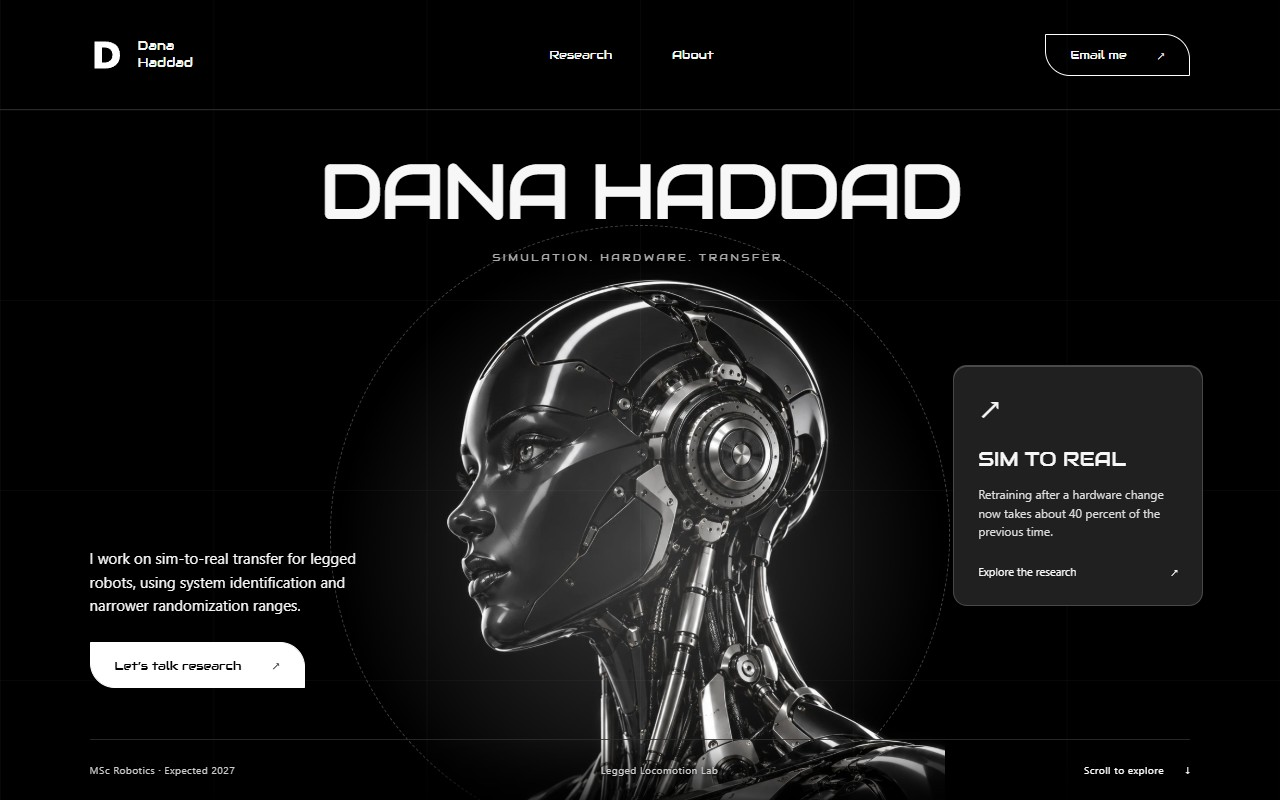
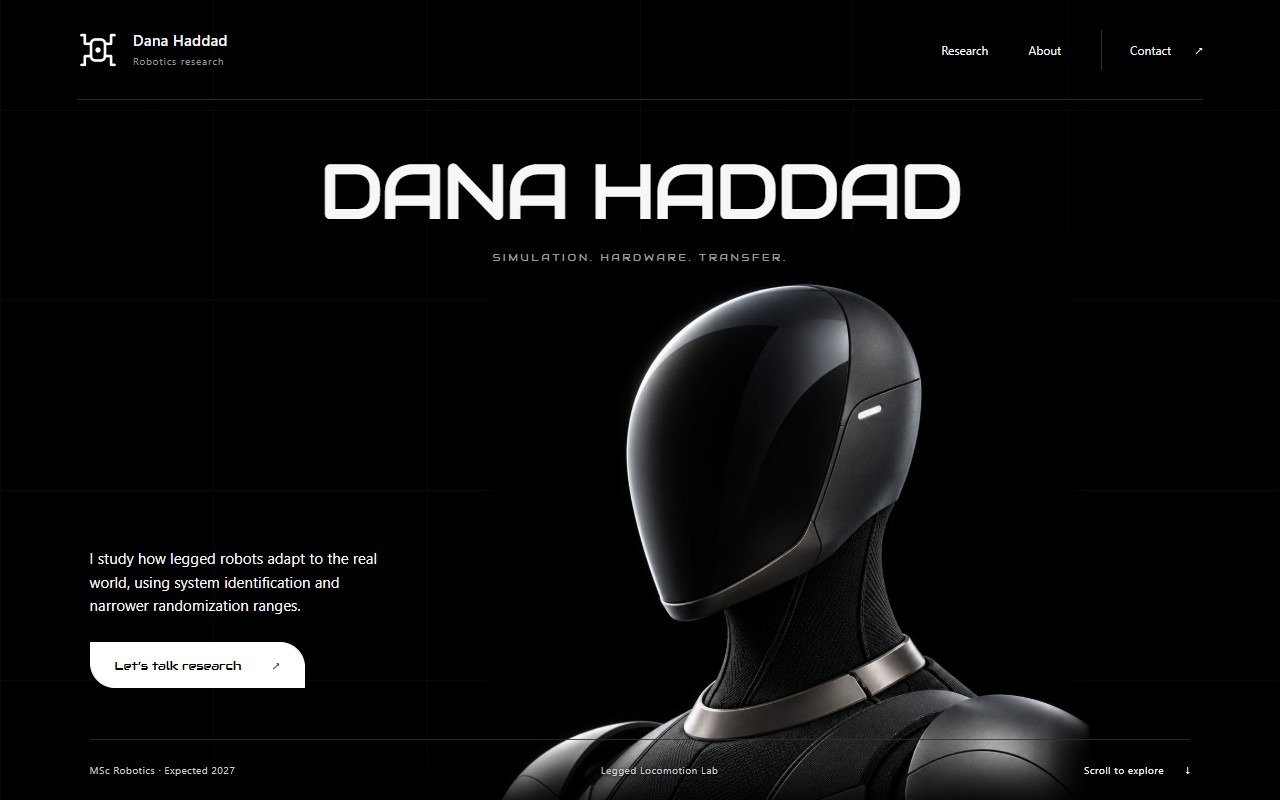
Refine Dana robot artwork and create independent stance identity

diff --git a/bench/examples/dana-reference-guided/site/index.html b/bench/examples/dana-reference-guided/site/index.html
@@ -5,27 +5,22 @@
 <title>Dana Haddad · Robotics research</title>
 <meta name="description" content="Dana Haddad researches sim-to-real transfer for legged robots. MSc Robotics candidate and research assistant at the Legged Locomotion Lab.">
 <meta name="theme-color" content="#000000"><meta property="og:type" content="website"><meta property="og:title" content="Dana Haddad · Robotics research"><meta property="og:description" content="Less retraining after each hardware change. Sim-to-real transfer for a quadruped robot."><meta property="og:image" content="hero-robot.webp"><meta name="twitter:card" content="summary_large_image">
-<link rel="icon" type="image/svg+xml" href="favicon.svg"><link rel="stylesheet" href="style.css">
+<link rel="icon" type="image/svg+xml" href="favicon.svg?v=2"><link rel="stylesheet" href="style.css">
 </head>
 <body>
 <a class="skip" href="#main">Skip to content</a>
-<header class="glass-nav">
- <a class="identity" href="./" aria-label="Dana Haddad home"><svg viewBox="0 0 24 24" aria-hidden="true"><path d="M3 3h7c6 0 10 3 10 9s-4 9-10 9H3V3Zm5 4v10h2c3 0 5-2 5-5s-2-5-5-5H8Z"/></svg><span>Dana Haddad</span></a>
- <nav aria-label="Main navigation"><a href="#research">Research</a><a class="about-link" href="#about">About</a></nav>
- <a class="nav-email" href="mailto:dana.haddad@example.org">Email me <span aria-hidden="true">↗</span></a>
-</header>
+<header class="research-nav"><a class="identity" href="./" aria-label="Dana Haddad home"><img src="mark.svg" width="42" height="42" alt=""><span>Dana Haddad<small>Robotics research</small></span></a><nav aria-label="Main navigation"><a href="#research">Research</a><a href="#about">About</a><a class="nav-contact" href="mailto:dana.haddad@example.org">Contact <span aria-hidden="true">↗</span></a></nav></header>
 <main id="main">
  <section class="hero" aria-labelledby="hero-title">
   <div class="orbit" aria-hidden="true"></div>
   <h1 id="hero-title">DANA HADDAD</h1>
   <p class="hero-discipline">SIMULATION. HARDWARE. TRANSFER.</p>
-  <img class="hero-robot" src="hero-robot.webp" width="1122" height="1402" fetchpriority="high" alt="Conceptual black-chrome humanoid robot sculpture in profile.">
+  <img class="hero-robot" src="hero-robot.webp" width="1122" height="1402" fetchpriority="high" alt="Conceptual research robot with a smooth graphite visor and woven technical shell.">
   <div class="hero-copy">
-   <p>I work on sim-to-real transfer for legged robots, using system identification and narrower randomization ranges.</p>
+   <p>I study how legged robots adapt to the real world, using system identification and narrower randomization ranges.</p>
    <a class="primary" href="mailto:dana.haddad@example.org">Let’s talk research <span aria-hidden="true">↗</span></a>
   </div>
-  <a class="research-card" href="#research"><span class="card-symbol" aria-hidden="true">↗</span><h2>SIM TO REAL</h2><p>Retraining after a hardware change now takes about 40 percent of the previous time.</p><span class="card-link">Explore the research <span aria-hidden="true">↗</span></span></a>
-  <div class="hero-foot"><p>MSc Robotics · Expected 2027</p><p>Legged Locomotion Lab</p><a href="#research">Scroll to explore <span aria-hidden="true">↓</span></a></div>
+<div class="hero-foot"><p>MSc Robotics · Expected 2027</p><p>Legged Locomotion Lab</p><a href="#research">Scroll to explore <span aria-hidden="true">↓</span></a></div>
  </section>
  <section class="research section" id="research" aria-labelledby="research-title">
   <div class="section-intro"><p class="section-label">Research</p><h2 id="research-title">Wider randomization<br>wasn’t more robust.</h2></div>

diff --git a/docs/samples/dana-reference/index.html b/docs/samples/dana-reference/index.html
@@ -5,27 +5,22 @@
 <title>Dana Haddad · Robotics research</title>
 <meta name="description" content="Dana Haddad researches sim-to-real transfer for legged robots. MSc Robotics candidate and research assistant at the Legged Locomotion Lab.">
 <meta name="theme-color" content="#000000"><meta property="og:type" content="website"><meta property="og:title" content="Dana Haddad · Robotics research"><meta property="og:description" content="Less retraining after each hardware change. Sim-to-real transfer for a quadruped robot."><meta property="og:image" content="hero-robot.webp"><meta name="twitter:card" content="summary_large_image">
-<link rel="icon" type="image/svg+xml" href="favicon.svg"><link rel="stylesheet" href="style.css">
+<link rel="icon" type="image/svg+xml" href="favicon.svg?v=2"><link rel="stylesheet" href="style.css">
 </head>
 <body>
 <a class="skip" href="#main">Skip to content</a>
-<header class="glass-nav">
- <a class="identity" href="./" aria-label="Dana Haddad home"><svg viewBox="0 0 24 24" aria-hidden="true"><path d="M3 3h7c6 0 10 3 10 9s-4 9-10 9H3V3Zm5 4v10h2c3 0 5-2 5-5s-2-5-5-5H8Z"/></svg><span>Dana Haddad</span></a>
- <nav aria-label="Main navigation"><a href="#research">Research</a><a class="about-link" href="#about">About</a></nav>
- <a class="nav-email" href="mailto:dana.haddad@example.org">Email me <span aria-hidden="true">↗</span></a>
-</header>
+<header class="research-nav"><a class="identity" href="./" aria-label="Dana Haddad home"><img src="mark.svg" width="42" height="42" alt=""><span>Dana Haddad<small>Robotics research</small></span></a><nav aria-label="Main navigation"><a href="#research">Research</a><a href="#about">About</a><a class="nav-contact" href="mailto:dana.haddad@example.org">Contact <span aria-hidden="true">↗</span></a></nav></header>
 <main id="main">
  <section class="hero" aria-labelledby="hero-title">
   <div class="orbit" aria-hidden="true"></div>
   <h1 id="hero-title">DANA HADDAD</h1>
   <p class="hero-discipline">SIMULATION. HARDWARE. TRANSFER.</p>
-  <img class="hero-robot" src="hero-robot.webp" width="1122" height="1402" fetchpriority="high" alt="Conceptual black-chrome humanoid robot sculpture in profile.">
+  <img class="hero-robot" src="hero-robot.webp" width="1122" height="1402" fetchpriority="high" alt="Conceptual research robot with a smooth graphite visor and woven technical shell.">
   <div class="hero-copy">
-   <p>I work on sim-to-real transfer for legged robots, using system identification and narrower randomization ranges.</p>
+   <p>I study how legged robots adapt to the real world, using system identification and narrower randomization ranges.</p>
    <a class="primary" href="mailto:dana.haddad@example.org">Let’s talk research <span aria-hidden="true">↗</span></a>
   </div>
-  <a class="research-card" href="#research"><span class="card-symbol" aria-hidden="true">↗</span><h2>SIM TO REAL</h2><p>Retraining after a hardware change now takes about 40 percent of the previous time.</p><span class="card-link">Explore the research <span aria-hidden="true">↗</span></span></a>
-  <div class="hero-foot"><p>MSc Robotics · Expected 2027</p><p>Legged Locomotion Lab</p><a href="#research">Scroll to explore <span aria-hidden="true">↓</span></a></div>
+<div class="hero-foot"><p>MSc Robotics · Expected 2027</p><p>Legged Locomotion Lab</p><a href="#research">Scroll to explore <span aria-hidden="true">↓</span></a></div>
  </section>
  <section class="research section" id="research" aria-labelledby="research-title">
   <div class="section-intro"><p class="section-label">Research</p><h2 id="research-title">Wider randomization<br>wasn’t more robust.</h2></div>

diff --git a/bench/examples/dana-reference-guided/site/style.css b/bench/examples/dana-reference-guided/site/style.css
@@ -5,3 +5,9 @@
 @media(prefers-reduced-motion:no-preference){html{scroll-behavior:smooth}}@media(prefers-reduced-transparency:reduce){.research-card{background:#202020;backdrop-filter:none}}
 
 @media(min-width:651px){.hero-foot{background:linear-gradient(transparent,#000c);text-shadow:0 1px 4px #000}.hero-foot p{color:#ccc}}
+
+/* Dana's stance mark and instrument-like navigation are distinct from Foreman. */
+.research-nav{position:absolute;top:0;left:6%;right:6%;z-index:5;height:100px;display:flex;align-items:center;justify-content:space-between;border-bottom:1px solid #ffffff28;gap:25px}.research-nav .identity{font-family:'Segoe UI',Arial,sans-serif;font-size:15px;gap:14px;font-weight:600;letter-spacing:.01em}.research-nav .identity img{width:42px;height:42px}.research-nav .identity span{max-width:none;line-height:1.3}.research-nav .identity small{display:block;font-size:10px;font-weight:400;color:#999;margin-top:5px;letter-spacing:.08em}.research-nav nav{margin:0;gap:40px;font:12px 'Segoe UI',Arial,sans-serif}.research-nav nav a{padding:12px 0;position:relative}.research-nav nav a::after{content:'';position:absolute;left:0;right:0;bottom:5px;height:1px;background:#fff;transform:scaleX(0);transform-origin:left;transition:transform .2s}.research-nav nav a:hover::after{transform:scaleX(1)}.research-nav .nav-contact{border-left:1px solid #ffffff30;padding-left:28px}.nav-contact span{margin-left:20px}.hero-robot{left:61%;top:235px;width:620px;mix-blend-mode:normal;mask-image:linear-gradient(90deg,transparent,#000 9%,#000 93%,transparent)}.hero::before{display:none}.orbit{display:none}.hero-copy{max-width:300px}.hero-discipline{color:#999}.hero-foot{background:linear-gradient(transparent,#000e6)}
+@media(min-width:1500px){.hero-robot{width:740px;top:250px;left:60%}}
+@media(max-width:1000px){.hero-robot{width:590px;left:65%;top:240px}.hero-copy{max-width:240px}.research-nav{left:5%;right:5%}.research-nav nav{gap:25px}}
+@media(max-width:650px){.research-nav{left:22px;right:22px;height:83px;gap:12px}.research-nav .identity img{width:31px;height:31px}.research-nav .identity{gap:0}.research-nav .identity span{display:none}.research-nav nav{font-size:12px;gap:22px}.research-nav .nav-contact{padding-left:18px}.nav-contact span{margin-left:8px}.hero-robot{left:auto;top:auto;width:calc(100% + 44px);margin:12px -22px -25px;mask-image:linear-gradient(#000 80%,transparent)}.hero-copy{max-width:none}.hero-foot{background:none}.hero-discipline{margin-bottom:0}}

diff --git a/docs/samples/dana-reference/style.css b/docs/samples/dana-reference/style.css
@@ -5,3 +5,9 @@
 @media(prefers-reduced-motion:no-preference){html{scroll-behavior:smooth}}@media(prefers-reduced-transparency:reduce){.research-card{background:#202020;backdrop-filter:none}}
 
 @media(min-width:651px){.hero-foot{background:linear-gradient(transparent,#000c);text-shadow:0 1px 4px #000}.hero-foot p{color:#ccc}}
+
+/* Dana's stance mark and instrument-like navigation are distinct from Foreman. */
+.research-nav{position:absolute;top:0;left:6%;right:6%;z-index:5;height:100px;display:flex;align-items:center;justify-content:space-between;border-bottom:1px solid #ffffff28;gap:25px}.research-nav .identity{font-family:'Segoe UI',Arial,sans-serif;font-size:15px;gap:14px;font-weight:600;letter-spacing:.01em}.research-nav .identity img{width:42px;height:42px}.research-nav .identity span{max-width:none;line-height:1.3}.research-nav .identity small{display:block;font-size:10px;font-weight:400;color:#999;margin-top:5px;letter-spacing:.08em}.research-nav nav{margin:0;gap:40px;font:12px 'Segoe UI',Arial,sans-serif}.research-nav nav a{padding:12px 0;position:relative}.research-nav nav a::after{content:'';position:absolute;left:0;right:0;bottom:5px;height:1px;background:#fff;transform:scaleX(0);transform-origin:left;transition:transform .2s}.research-nav nav a:hover::after{transform:scaleX(1)}.research-nav .nav-contact{border-left:1px solid #ffffff30;padding-left:28px}.nav-contact span{margin-left:20px}.hero-robot{left:61%;top:235px;width:620px;mix-blend-mode:normal;mask-image:linear-gradient(90deg,transparent,#000 9%,#000 93%,transparent)}.hero::before{display:none}.orbit{display:none}.hero-copy{max-width:300px}.hero-discipline{color:#999}.hero-foot{background:linear-gradient(transparent,#000e6)}
+@media(min-width:1500px){.hero-robot{width:740px;top:250px;left:60%}}
+@media(max-width:1000px){.hero-robot{width:590px;left:65%;top:240px}.hero-copy{max-width:240px}.research-nav{left:5%;right:5%}.research-nav nav{gap:25px}}
+@media(max-width:650px){.research-nav{left:22px;right:22px;height:83px;gap:12px}.research-nav .identity img{width:31px;height:31px}.research-nav .identity{gap:0}.research-nav .identity span{display:none}.research-nav nav{font-size:12px;gap:22px}.research-nav .nav-contact{padding-left:18px}.nav-contact span{margin-left:8px}.hero-robot{left:auto;top:auto;width:calc(100% + 44px);margin:12px -22px -25px;mask-image:linear-gradient(#000 80%,transparent)}.hero-copy{max-width:none}.hero-foot{background:none}.hero-discipline{margin-bottom:0}}

diff --git a/bench/examples/dana-reference-guided/site/404.html b/bench/examples/dana-reference-guided/site/404.html
@@ -1,1 +1,1 @@
-<!doctype html><html lang="en"><head><meta charset="utf-8"><meta name="viewport" content="width=device-width,initial-scale=1"><meta name="robots" content="noindex"><title>Page not found · Dana Haddad</title><meta name="description" content="This page could not be found. Return to Dana Haddad's robotics portfolio."><link rel="icon" href="favicon.svg" type="image/svg+xml"><link rel="stylesheet" href="style.css"></head><body><header class="glass-nav"><a class="identity" href="./">Dana Haddad</a><nav aria-label="Main navigation"><a href="./#research">Research</a><a class="about-link" href="./#about">About</a></nav><a class="nav-email" href="mailto:dana.haddad@example.org">Email me ↗</a></header><main class="not-found"><h1>Page not found.</h1><p>There is nothing at this address. The research is one click away.</p><a class="primary" href="./">Back to the portfolio ↗</a></main><footer><a href="./">Dana Haddad</a><p>Robotics research</p><a href="mailto:dana.haddad@example.org">Email me ↗</a></footer></body></html>
+<!doctype html><html lang="en"><head><meta charset="utf-8"><meta name="viewport" content="width=device-width,initial-scale=1"><meta name="robots" content="noindex"><title>Page not found · Dana Haddad</title><meta name="description" content="This page could not be found. Return to Dana Haddad's robotics portfolio."><link rel="icon" href="favicon.svg?v=2" type="image/svg+xml"><link rel="stylesheet" href="style.css"></head><body><header class="research-nav"><a class="identity" href="./" aria-label="Dana Haddad home"><img src="mark.svg" width="42" height="42" alt=""><span>Dana Haddad<small>Robotics research</small></span></a><nav aria-label="Main navigation"><a href="./#research">Research</a><a href="./#about">About</a><a class="nav-contact" href="mailto:dana.haddad@example.org">Contact <span aria-hidden="true">↗</span></a></nav></header><main class="not-found"><h1>Page not found.</h1><p>There is nothing at this address. The research is one click away.</p><a class="primary" href="./">Back to the portfolio ↗</a></main><footer><a href="./">Dana Haddad</a><p>Robotics research</p><a href="mailto:dana.haddad@example.org">Email me ↗</a></footer></body></html>

diff --git a/docs/samples/dana-reference/404.html b/docs/samples/dana-reference/404.html
@@ -1,1 +1,1 @@
-<!doctype html><html lang="en"><head><meta charset="utf-8"><meta name="viewport" content="width=device-width,initial-scale=1"><meta name="robots" content="noindex"><title>Page not found · Dana Haddad</title><meta name="description" content="This page could not be found. Return to Dana Haddad's robotics portfolio."><link rel="icon" href="favicon.svg" type="image/svg+xml"><link rel="stylesheet" href="style.css"></head><body><header class="glass-nav"><a class="identity" href="./">Dana Haddad</a><nav aria-label="Main navigation"><a href="./#research">Research</a><a class="about-link" href="./#about">About</a></nav><a class="nav-email" href="mailto:dana.haddad@example.org">Email me ↗</a></header><main class="not-found"><h1>Page not found.</h1><p>There is nothing at this address. The research is one click away.</p><a class="primary" href="./">Back to the portfolio ↗</a></main><footer><a href="./">Dana Haddad</a><p>Robotics research</p><a href="mailto:dana.haddad@example.org">Email me ↗</a></footer></body></html>
+<!doctype html><html lang="en"><head><meta charset="utf-8"><meta name="viewport" content="width=device-width,initial-scale=1"><meta name="robots" content="noindex"><title>Page not found · Dana Haddad</title><meta name="description" content="This page could not be found. Return to Dana Haddad's robotics portfolio."><link rel="icon" href="favicon.svg?v=2" type="image/svg+xml"><link rel="stylesheet" href="style.css"></head><body><header class="research-nav"><a class="identity" href="./" aria-label="Dana Haddad home"><img src="mark.svg" width="42" height="42" alt=""><span>Dana Haddad<small>Robotics research</small></span></a><nav aria-label="Main navigation"><a href="./#research">Research</a><a href="./#about">About</a><a class="nav-contact" href="mailto:dana.haddad@example.org">Contact <span aria-hidden="true">↗</span></a></nav></header><main class="not-found"><h1>Page not found.</h1><p>There is nothing at this address. The research is one click away.</p><a class="primary" href="./">Back to the portfolio ↗</a></main><footer><a href="./">Dana Haddad</a><p>Robotics research</p><a href="mailto:dana.haddad@example.org">Email me ↗</a></footer></body></html>

diff --git a/docs/index.html b/docs/index.html
@@ -306,7 +306,7 @@ What would make that lead close your page within ten seconds?</div>
     <div class="comparison" style="--split:50%">
  <div class="comparison-stage">
   <img class="compare-before" src="/samples/dana-baseline.jpg" width="1280" height="800" alt="Initial portfolio draft." loading="lazy">
-  <img class="compare-after" src="/samples/dana-reference.jpg" width="1280" height="800" alt="Reference-guided robotics portfolio with a black-chrome robot and cinematic typography." loading="lazy">
+  <img class="compare-after" src="/samples/dana-reference.jpg" width="1280" height="800" alt="Reference-guided robotics portfolio with a graphite-shell robot and cinematic typography." loading="lazy">
   <span class="compare-label before-label">Initial draft</span><span class="compare-label after-label">With Foreman</span>
   <div class="compare-divider" aria-hidden="true"><span class="compare-handle">‹ <i></i> ›</span></div>
   <input class="compare-range" type="range" min="0" max="100" value="50" aria-label="Compare the initial draft and reference-guided portfolio" aria-valuetext="50 percent reference-guided portfolio">

diff --git a/site/partials/pair_dana.html b/site/partials/pair_dana.html
@@ -1,7 +1,7 @@
 <div class="comparison" style="--split:50%">
  <div class="comparison-stage">
   <img class="compare-before" src="/samples/dana-baseline.jpg" width="1280" height="800" alt="Initial portfolio draft." loading="lazy">
-  <img class="compare-after" src="/samples/dana-reference.jpg" width="1280" height="800" alt="Reference-guided robotics portfolio with a black-chrome robot and cinematic typography." loading="lazy">
+  <img class="compare-after" src="/samples/dana-reference.jpg" width="1280" height="800" alt="Reference-guided robotics portfolio with a graphite-shell robot and cinematic typography." loading="lazy">
   <span class="compare-label before-label">Initial draft</span><span class="compare-label after-label">With Foreman</span>
   <div class="compare-divider" aria-hidden="true"><span class="compare-handle">‹ <i></i> ›</span></div>
   <input class="compare-range" type="range" min="0" max="100" value="50" aria-label="Compare the initial draft and reference-guided portfolio" aria-valuetext="50 percent reference-guided portfolio">

diff --git a/bench/examples/dana-reference-guided/README.md b/bench/examples/dana-reference-guided/README.md
@@ -1,23 +1,23 @@
-# Reference-guided Dana portfolio example
-
-Created 30 October 2026 using Codex with Foreman 3.0.1, at Turki's explicit request. This is an owner-directed, reviewed example, not a controlled benchmark or an unassisted one-shot output.
-
-The original 27 October baseline and notebook result were produced with Claude Sonnet on the author's machine. Claude's weekly subscription quota was exhausted for this rerun; paid overage was not authorized and no paid Claude call was made. Turki selected Codex instead and requested that the execution details live in documentation, not in the public design.
-
-A standalone Codex CLI attempt was blocked by its read-only runtime and created no site files. The completed run used a delegated Codex worker in this session with the same isolated folder and reference pack. It wrote BRAND.md and BRIEF.md before implementation, followed by the source in site/. Review requested a wider headline to keep the email action inside the desktop viewport and more specific contact wording. The resulting source is preserved here, with no screenshot compositing or invented output.
-
-The same CV and project notes from bench/scenarios/robotics-phd.json supplied the claims. The new run additionally received explicit visual references and owner-approved art direction. Its model, inputs and review differ from the earlier baseline, so this comparison cannot isolate Foreman's causal effect. The public section consequently no longer claims same agent, same model or equal-input measurement. Its screenshots show an initial draft and a reference-guided result. The hero terminal and step-viewer excerpts remain the historical Claude session, separate from this new build.
-
-## References
-
-- Roman Vasylovskyi, Liquid glass navigation: https://dribbble.com/shots/26155046-Liquid-glass-navigation
-- Clean Hero section for Framer built with Frameblox UI kit: https://dribbble.com/shots/25721270-Clean-Hero-section-for-Framer-built-with-Frameblox-UI-kit
-- Marie Angelika Maglinte, AM Designs Architectural Portfolio Website: https://dribbble.com/shots/26694508-AM-Designs-Architectural-Portfolio-Website
-
-The first two were supplied as screenshots by Turki. The third reference was researched from its primary designer page. The reference pack maps each source to an applied design choice. The quadruped is an original editable SVG study, not a real lab photograph. The persona and supplied research facts are synthetic scenario data.
-
-## Verification
-
-Desktop 1280x800 and mobile375x812 were rendered and visually inspected. Local checks found no horizontal overflow, broken internal anchors, page errors or axe WCAG A/AA violations. Primary actions point to the supplied email address. Source has no network dependencies. No publication, domain, indexing or production metadata verification is claimed.
-
-Run `python scripts/build_site.py` to reproduce docs/samples/dana-reference/. The screenshot assets are actual browser captures of this source. Agent/run details intentionally remain in this documentation, per the owner's direction.
+# Reference-guided Dana portfolio example
+
+Created 30 October 2026 using Codex with Foreman 3.0.1, at Turki's explicit request. This is an owner-directed, reviewed example, not a controlled benchmark or an unassisted one-shot output.
+
+The original 27 October baseline and notebook result were produced with Claude Sonnet on the author's machine. Claude's weekly subscription quota was exhausted for this rerun; paid overage was not authorized and no paid Claude call was made. Turki selected Codex instead and requested that the execution details live in documentation, not in the public design.
+
+A standalone Codex CLI attempt was blocked by its read-only runtime and created no site files. The completed run used a delegated Codex worker in this session with the same isolated folder and reference pack. It wrote BRAND.md and BRIEF.md before implementation, followed by the source in site/. Review requested a wider headline to keep the email action inside the desktop viewport and more specific contact wording. The resulting source is preserved here, with no screenshot compositing or invented output.
+
+The same CV and project notes from bench/scenarios/robotics-phd.json supplied the claims. The new run additionally received explicit visual references and owner-approved art direction. Its model, inputs and review differ from the earlier baseline, so this comparison cannot isolate Foreman's causal effect. The public section consequently no longer claims same agent, same model or equal-input measurement. Its screenshots show an initial draft and a reference-guided result. The hero terminal and step-viewer excerpts remain the historical Claude session, separate from this new build.
+
+## References
+
+- Roman Vasylovskyi, Liquid glass navigation: https://dribbble.com/shots/26155046-Liquid-glass-navigation
+- Clean Hero section for Framer built with Frameblox UI kit: https://dribbble.com/shots/25721270-Clean-Hero-section-for-Framer-built-with-Frameblox-UI-kit
+- Marie Angelika Maglinte, AM Designs Architectural Portfolio Website: https://dribbble.com/shots/26694508-AM-Designs-Architectural-Portfolio-Website
+
+The first two were supplied as screenshots by Turki. The third reference was researched from its primary designer page. The reference pack maps each source to an applied design choice. The quadruped is an original editable SVG study, not a real lab photograph. The persona and supplied research facts are synthetic scenario data.
+
+## Verification
+
+Desktop 1280x800 and mobile375x812 were rendered and visually inspected. Local checks found no horizontal overflow, broken internal anchors, page errors or axe WCAG A/AA violations. Primary actions point to the supplied email address. Source has no network dependencies. No publication, domain, indexing or production metadata verification is claimed.
+
+Run `python scripts/build_site.py` to reproduce docs/samples/dana-reference/. The screenshot assets are actual browser captures of this source. Agent/run details intentionally remain in this documentation, per the owner's direction.

diff --git a/bench/examples/dana-reference-guided/BRIEF.md b/bench/examples/dana-reference-guided/BRIEF.md
@@ -1,22 +1,71 @@
 # Dana Haddad portfolio build brief
 
+
+
 Frozen before implementation, 30 October 2026. User authorized a Codex reference-guided Foreman example and supplied the changed look. No separate approval is needed from the fictional persona.
 
+
+
 ## Audience and action
+
 Research group leads recruiting PhD applicants in legged robotics. Primary action: email dana.haddad@example.org. Register: academic, plain, precise.
 
+
+
 ## Content and evidence
+
 Only CV.md and project-notes.md supply personal/project claims. Opening headline is the owner's project-note line, lightly joined without changing its meaning: “Retraining after each hardware change took most of a day. Now it takes about 40 percent of that.” Supporting role: MSc Robotics, expected 2027; research assistant at the Legged Locomotion Lab; applying for PhD positions. Project explanation covers system identification, narrower randomization ranges and overly timid policies with broader randomization. Background lists the provided five tools and two ICRA 2026 workshop papers, without titles or fabricated links.
 
+
+
 ## Build
+
 Dependency-free index.html and shared style.css. Original editable quadruped.svg and monogram favicon.svg. Custom 404.html with the same header and footer. All links are real anchors or mailto. Do not invent a domain, canonical URL or published status. Metadata title, description, viewport, theme color and local Open Graph image are supplied; absolute production URLs remain a deployment concern because no domain was provided.
 
+
+
 ## Non-goals
+
 No contact form, analytics, blog, carousel, invented numbers, portrait, testimonials, institutional logos, fake CV download, placeholder papers, network fonts or paid services. No model or agent label on the public page. Agent and run provenance belongs in RUN-NOTES.md.
 
+
+
 ## Quality and verification
+
 Design according to BRAND.md. Test local HTML and resource references, visible focus, email destination, in-page anchors, no horizontal overflow at 375px and 1280px, readable contrast. The orchestrator will inspect real desktop and mobile browser screenshots and integrate the resulting example. No publication or claims of full deployment verification. No em or en dashes.
+
+
 
 ## Owner revision, 30 October 2026
 
+
+
 Replace the notebook look with the first supplied robotics reference: cinematic black/chrome, fine grid, large technical headline, a central humanoid art render and an offset research card. Preserve the research facts and email action. Turki explicitly approved generating the original robot asset. The humanoid is conceptual hero artwork, not evidence of Dana having built a humanoid. The earlier quadruped drawing is superseded in the visible page. Keep agent provenance in documentation.
+
+
+
+
+
+## Owner revision: smoother robot and independent identity
+
+
+
+Turki rejected the exposed chrome robot and supplied these references on 30 October 2026:
+
+- Studio Float and collaborators, NEURA Robotics 4NE1 Teaser: https://www.behance.net/gallery/241878111/NEURA-Robotics-4NE1-Teaser . Observed controlled silhouette lighting, smooth graphite housing, technical textile skin.
+
+- Gaetano De Cicco, NASA NEXUS: https://www.behance.net/gallery/257122577/-NASA-NEXUS . Observed smooth featureless head, continuous shell and restrained seam detailing. This is the artist's concept; no NASA affiliation is asserted for Dana.
+
+
+
+The pages were visually inspected. No explicit reuse licence was found in the inspected project content, so no original artwork was incorporated. The approved original image-generation workflow was used for a new smooth graphite robot and textile shell. The SIM TO REAL card was removed from the hero; the research facts remain in the research section. Dana's new original vector mark depicts a quadruped stance in plan view, with a separate SVG favicon. No letter monogram or Foreman mark remains. Navigation is a restrained ruled row with Research, About and Contact. The example remains unpublished.
+
+
+
+## Owner revision: smoother robot and independent identity
+
+Turki rejected the exposed chrome robot and supplied these references on 30 October 2026:
+- Studio Float and collaborators, NEURA Robotics 4NE1 Teaser: https://www.behance.net/gallery/241878111/NEURA-Robotics-4NE1-Teaser . Observed controlled silhouette lighting, smooth graphite housing, technical textile skin.
+- Gaetano De Cicco, NASA NEXUS: https://www.behance.net/gallery/257122577/-NASA-NEXUS . Observed smooth featureless head, continuous shell and restrained seam detailing. This is the artist's concept; no NASA affiliation is asserted for Dana.
+
+The pages were visually inspected. No explicit reuse licence was found in the inspected project content, so no original artwork was incorporated. The approved original image-generation workflow was used for a new smooth graphite robot and textile shell. The SIM TO REAL card was removed from the hero; the research facts remain in the research section. Dana's new original vector mark depicts a quadruped stance in plan view, with a separate SVG favicon. No letter monogram or Foreman mark remains. Navigation is a restrained ruled row with Research, About and Contact. The example remains unpublished.

diff --git a/bench/examples/dana-reference-guided/REFERENCE-PACK.md b/bench/examples/dana-reference-guided/REFERENCE-PACK.md
@@ -1,8 +1,43 @@
 # Approved direction
+
 The owner requests a reference-led re-run of Dana's example portfolio, with liquid glass and editorial composition. The previous notebook look is superseded.
 
+
+
 1. Roman Vasylovskyi, Liquid glass navigation: https://dribbble.com/shots/26155046-Liquid-glass-navigation . Local navigation.png is the owner-provided screenshot. Take the CLEAR transparent capsule, fine reflective rim, soft refraction, carefully aligned links. Avoid opaque frosted white panels.
+
 2. Clean Hero section for Framer built with Frameblox UI kit: https://dribbble.com/shots/25721270-Clean-Hero-section-for-Framer-built-with-Frameblox-UI-kit . Local hero-reference.png is the owner-provided screenshot. Take the airy oversized thin headline, depth, restrained buttons, and content entering bottom edge. Do not copy words, endorsements, scenery or logos.
+
 3. Marie Angelika Maglinte, AM Designs Architectural Portfolio Website: https://dribbble.com/shots/26694508-AM-Designs-Architectural-Portfolio-Website . Primary page describes large-format imagery, generous whitespace, refined typography and minimal navigation. Apply the editorial hierarchy, not architecture as the portfolio's subject.
 
+
+
 The actual subject is robotics. No provided robot photos exist here. Use a precise original vector technical study of a quadruped, visibly an illustration rather than fabricated lab evidence. Neutral aluminium, charcoal and a very small emergency-stop orange accent. Light default. Email is the one conversion. Use only CV.md and project-notes.md for claims. Do not invent publication titles, affiliations, exact retraining hours, images or testimonials. The notebook option from the older run is explicitly replaced by the user's reference decision.
+
+
+
+
+
+## Owner revision: smoother robot and independent identity
+
+
+
+Turki rejected the exposed chrome robot and supplied these references on 30 October 2026:
+
+- Studio Float and collaborators, NEURA Robotics 4NE1 Teaser: https://www.behance.net/gallery/241878111/NEURA-Robotics-4NE1-Teaser . Observed controlled silhouette lighting, smooth graphite housing, technical textile skin.
+
+- Gaetano De Cicco, NASA NEXUS: https://www.behance.net/gallery/257122577/-NASA-NEXUS . Observed smooth featureless head, continuous shell and restrained seam detailing. This is the artist's concept; no NASA affiliation is asserted for Dana.
+
+
+
+The pages were visually inspected. No explicit reuse licence was found in the inspected project content, so no original artwork was incorporated. The approved original image-generation workflow was used for a new smooth graphite robot and textile shell. The SIM TO REAL card was removed from the hero; the research facts remain in the research section. Dana's new original vector mark depicts a quadruped stance in plan view, with a separate SVG favicon. No letter monogram or Foreman mark remains. Navigation is a restrained ruled row with Research, About and Contact. The example remains unpublished.
+
+
+
+## Owner revision: smoother robot and independent identity
+
+Turki rejected the exposed chrome robot and supplied these references on 30 October 2026:
+- Studio Float and collaborators, NEURA Robotics 4NE1 Teaser: https://www.behance.net/gallery/241878111/NEURA-Robotics-4NE1-Teaser . Observed controlled silhouette lighting, smooth graphite housing, technical textile skin.
+- Gaetano De Cicco, NASA NEXUS: https://www.behance.net/gallery/257122577/-NASA-NEXUS . Observed smooth featureless head, continuous shell and restrained seam detailing. This is the artist's concept; no NASA affiliation is asserted for Dana.
+
+The pages were visually inspected. No explicit reuse licence was found in the inspected project content, so no original artwork was incorporated. The approved original image-generation workflow was used for a new smooth graphite robot and textile shell. The SIM TO REAL card was removed from the hero; the research facts remain in the research section. Dana's new original vector mark depicts a quadruped stance in plan view, with a separate SVG favicon. No letter monogram or Foreman mark remains. Navigation is a restrained ruled row with Research, About and Contact. The example remains unpublished.
